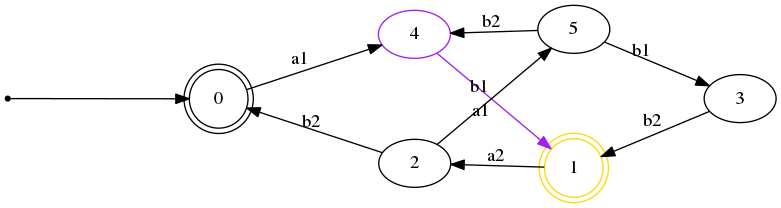
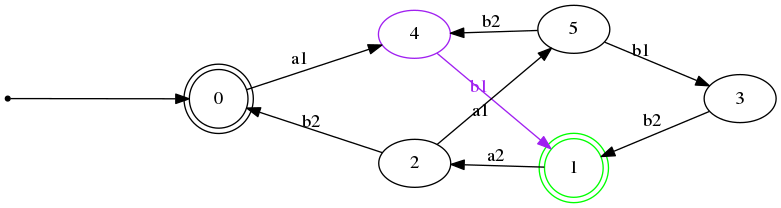
little things

diff --git a/automata/envs/pygv.py b/automata/envs/pygv.py
@@ -6,7 +6,6 @@ Created on Thu Dec 26 15:25:46 2019
 @author: kallil
 """
 from IPython.display import Image, display
-from XMLReader import parse
 import pygraphviz as pgv
 
 def plotSM(states, terminal, initial_state, actual_state, last_state, actions, transitions, width, height, prog, sep):
@@ -23,7 +22,7 @@ def plotSM(states, terminal, initial_state, actual_state, last_state, actions, t
                 n.attr['shape'] = 'doublecircle'
             if(i == actual_state):
                 n = G.get_node(i)
-                n.attr['color'] = 'gold'
+                n.attr['color'] = 'green'
             elif(i==last_state):
                 n = G.get_node(i)
                 n.attr['color'] = 'purple'
@@ -31,12 +30,12 @@ def plotSM(states, terminal, initial_state, actual_state, last_state, actions, t
             G.add_node(i, shape='doublecircle')
             if(i == actual_state):
                 n = G.get_node(i)
-                n.attr['color'] = 'gold'
+                n.attr['color'] = 'green'
             elif(i==last_state):
                 n = G.get_node(i)
                 n.attr['color'] = 'purple'
         elif(i == actual_state):
-            G.add_node(i, color='gold')
+            G.add_node(i, color='green')
         elif(i==last_state):
             G.add_node(i, color='purple')
         else:
@@ -46,7 +45,7 @@ def plotSM(states, terminal, initial_state, actual_state, last_state, actions, t
         for j in actions:
             if(i[2] == j[0]):
                 if(i[0] == last_state and i[1] == actual_state):
-                    G.add_edge(i[0], i[1], label = str(j[1]), color = 'purple')
+                    G.add_edge(i[0], i[1], label = str(j[1]), color = 'purple', fontcolor = 'purple')
                 else:
                     G.add_edge(i[0], i[1], label = str(j[1]))                    
                 

diff --git a/automata/envs/automata_env.py b/automata/envs/automata_env.py
@@ -1,11 +1,7 @@
 import gym
-from gym import error, spaces, utils
-from gym.utils import seeding
-import lxml.etree as et
-import xml.dom.minidom
-from XMLReader import parse
+from gym import spaces
 from pygv import plotSM
-from IPython.display import display, Image
+from XMLReader import parse
 
 class automataEnv(gym.Env):
   metadata = {'render.modes': ['human']}

diff --git a/automata/envs/XMLReader.py b/automata/envs/XMLReader.py
@@ -8,7 +8,6 @@ Created on Fri Dec 20 17:50:44 2019
 
 import xml.dom.minidom
 
-
 def parse(filename):
     
     doc = xml.dom.minidom.parse(filename)
